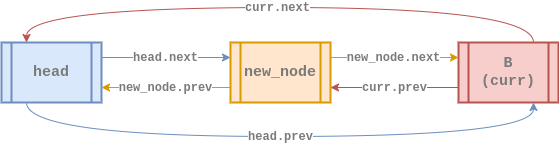
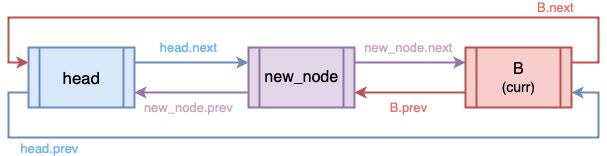
Circular Linked List figures updated

diff --git a/posts/eng/DataStructure/eng-linked-list-circular.md b/posts/eng/DataStructure/eng-linked-list-circular.md
@@ -1,5 +1,5 @@
 ### What is Circular Linked List?
-The end of the linked lists are normally defined by the tail node pointing to `nil`. In the case of <routerlink to="/en-data-structure-linked-list-doubly">Doubly Linked List</router-link> both the `head.prev` and `tail.next` points to `nil`.
+The end of the linked lists are normally defined by the tail node pointing to `nil`. In the case of <router-link to="./eng-linked-list-doubly">Doubly Linked List</router-link> both the `head.prev` and `tail.next` points to `nil`.
 
 <div style="text-align: center">
   <img src="assets/data-structure/linked-list/cll-doubly-example.png" alt="Linked list picture">
@@ -207,7 +207,8 @@ And finally, we update `head.prev` so that it's pointing to our new head.
 <div style="text-align: center">
   <img src="assets/data-structure/linked-list/cll-doubly-insert_at5.png" alt="circular doubly linked list picture">
 </div>
- Inserting a node in between nodes
+ 
+ ### Inserting a node in between nodes
 
 **Circular Singly Linked List**
 
@@ -225,11 +226,19 @@ When we're inserting a new node at index `i`, we need to have an access to a nod
   <img src="assets/data-structure/linked-list/cll-singly-insert_at3.png" alt="circular doubly linked list picture">
 </div>
 
-And we connect `curr.next` with `new_node` and we're done.
+And we connect `curr.next` with `new_node`. 
 
 <div style="text-align: center">
   <img src="assets/data-structure/linked-list/cll-singly-insert_at4.png" alt="circular doubly linked list picture">
 </div>
+
+Lets rearrange those nodes in the figure just to double check that everything is well connected.
+
+<div style="text-align: center">
+  <img src="assets/data-structure/linked-list/cll-singly-insert_at5.png" alt="circular doubly linked list picture">
+</div>
+
+
 
 **Circular Doubly Linked List**
 
@@ -244,17 +253,24 @@ And we connect `curr.next` with `new_node` and we're done.
   curr.prev = new_node
 ```
 
-Save the node located at the index we're going to insert a new node to `curr` -- `B` node in the figure below -- and link `new_node.prev` and `new_node.next` to `curr.prev` and `curr.next` respectively.
+Save the node located at the index we're going to insert a new node to `curr` (`B` in the below figure) node in the figure below -- and link `new_node.prev` and `new_node.next` to `curr.prev` and `curr.next` respectively.
 
 <div style="text-align: center">
   <img src="assets/data-structure/linked-list/cll-doubly-insert_at1.png" alt="circular doubly linked list picture">
 </div>
 
-And let `curr.prev.next` -- `head.next` -- and `curr.prev` point to `new_node`.
+And let `head.next` and `curr.prev` point to `new_node`, and it looks like the below.
+
+<div style="text-align: center">
+  <img src="assets/data-structure/linked-list/cll-doubly-insert_at6.png" alt="circular doubly linked list picture">
+</div>
+
+Which is basically same as this.
 
 <div style="text-align: center">
   <img src="assets/data-structure/linked-list/cll-doubly-insert_at2.png" alt="circular doubly linked list picture">
 </div>
+
 
 ### remove\_at
 
@@ -269,6 +285,10 @@ def remove_front
   temp = temp.next = nil
 end
 ```
+
+<div style="text-align: center">
+  <img src="assets/data-structure/linked-list/cll-singly-remove-at0.png" alt="circular doubly linked list picture">
+</div>
 
 Since `@last.next` points to the head node, we can simply re-link this node to `@last.next.next`.
 
@@ -287,6 +307,10 @@ def remove_front
   temp = temp.next = temp.prev = nil
 end
 ```
+
+<div style="text-align: center">
+  <img src="assets/data-structure/linked-list/cll-doubly-remove-at0.png" alt="Linked list picture">
+</div>
 
 We need to dislink all nodes connected to `@head`.
 ```rb
@@ -322,6 +346,10 @@ def remove_last
   temp = temp.next = nil
 end
 ```
+
+<div style="text-align: center">
+  <img src="assets/data-structure/linked-list/cll-singly-remove-at0.png" alt="circular doubly linked list picture">
+</div>
 
 In order to remove the `@last` node, we need to have an access to its previous node (`B` node in the figure below). We save this node to `curr` and let `curr.next` point to `@last.next`.
 

diff --git a/posts/jap/DataStructure/jap-linked-list-circular.md b/posts/jap/DataStructure/jap-linked-list-circular.md
@@ -1,12 +1,12 @@
 
 ### 循環リストとは?
-一般的に連結リストの最後のノードの次は「これがラストです」っと言う意味で`nil`を指す。<router-link to="./jap-linked-list-doubly">双方向リスト</router-link>の場合最後のノードの次「`next`」だけじゃなく、最初のノードの以前「`prev`」も`nil`を指す。
+一般的に連結リストの最後のノードは「これがラストです」という意味でnilを示します。<router-link to="./jap-linked-list-doubly">双方向リスト</router-link>の場合は最後のノードのnextと最初のノードのprevがnilを示します。
 
 <div style="text-align: center">
   <img src="assets/data-structure/linked-list/cll-doubly-example.png" alt="Linked list picture">
 </div>
 
-だが循環リストの最後のノードの`next`は最初を指して、最初のノードの`prev`が最後を指す。循環する構造だ。
+でも循環リストの場合、最後のノードのnextは最初のノードを、最初のノードのprevは最後を示します。循環する構造です。
 
 <div style="text-align: center">
   <img src="assets/data-structure/linked-list/cll-doubly.png" alt="Linked list picture">

diff --git a/posts/jap/DataStructure/jap-array.md b/posts/jap/DataStructure/jap-array.md
@@ -178,7 +178,7 @@ arr       # => [1, 2, 3, 4, 5]
 </div>
 
 一次元配列の場合は`arr[0]`などな方法で要素に接近しました。二次元配列の場合には列(column)と行(row)、二つのインデックスを使用して要素に接近します。
-インデックスの順位に注意してください。`arr[col][row]`ではなく`arr[row][col]`です(上の表を確認)。
+インデックスの順位に注意してください。`arr[col][row]`ではなく`arr[row][col]`です（上の表を確認してください）。
 
 ## 二次元配列の生成
 
@@ -199,7 +199,7 @@ arr[2][2]  # => 9
 
 2. `:new`メソッドを使用する。
 
-最初に一次元配列を作って、それぞれの要素に配列を挿入することもできます。
+最初に一次元配列を作って、それぞれの要素に部分配列を挿入することもできます。
 
 ```rb
 arr = Array.new(3)  # => [nil, nil, nil]

diff --git a/posts/kor/DataStructure/kor-linked-list-circular.md b/posts/kor/DataStructure/kor-linked-list-circular.md
@@ -1,5 +1,5 @@
 ### 원형 연결 리스트란?
-일반적으로 연결 리스트에서 마지막 노드는 '이 노드가 마지막입니다'라는 의미로 `nil`을 가리킨다. [이중 연결 리스트](/ko-data-structure-linked-list-doubly)의 경우 마지막 노드의 `next`와 더불어 첫 번째 노드의 `prev`도 `nil`을 가리킨다.
+일반적으로 연결 리스트에서 마지막 노드는 '이 노드가 마지막입니다'라는 의미로 `nil`을 가리킨다. <router-link to="./kor-linked-list-doubly">이중 연결 리스트</router-link>의 경우 마지막 노드의 `next`와 더불어 첫 번째 노드의 `prev`도 `nil`을 가리킨다.
 
 <div style="text-align: center">
   <img src="assets/data-structure/linked-list/cll-doubly-example.png" alt="Linked list picture">
